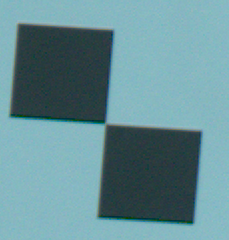
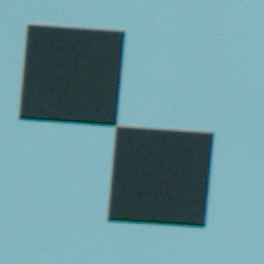
Add grayscale gradient subpixel localization and stepwise debugging

Changed region(s): [[0.0306, 0.0875, 0.8865, 0.9625]]

diff --git a/mubiaogenzong/debug_center.py b/mubiaogenzong/debug_center.py
@@ -1,0 +1,169 @@
+"""Debug grayscale-gradient subpixel center localization without changing live tracking."""
+import argparse
+import json
+import sys
+from datetime import datetime
+from pathlib import Path
+
+import cv2
+import numpy as np
+
+import center_calculation as center
+from gradient_localization import gradient_edge_points, robust_line
+
+PROJECT_DIR = Path(__file__).resolve().parent.parent
+# Change this path to choose the image used when running without arguments.
+DEFAULT_IMAGE_PATH = Path(r"C:\Users\Administrator\Desktop\xiangce\1.jpg")
+
+
+def save_image(path, image):
+    if not center.cv_imwrite(path, image):
+        raise RuntimeError(f"Cannot save image: {path}")
+
+
+def draw_line(image, line, color):
+    height, width = image.shape[:2]
+    p1, p2 = [tuple(int(round(v)) for v in point) for point in line]
+    visible, a, b = cv2.clipLine((0, 0, width, height), p1, p2)
+    if visible:
+        cv2.line(image, a, b, color, 1, cv2.LINE_8)
+
+
+
+def main():
+    parser = argparse.ArgumentParser(description=__doc__)
+    parser.add_argument("image", nargs="?", default=str(DEFAULT_IMAGE_PATH),
+                        help=f"Source image path. Default: {DEFAULT_IMAGE_PATH}")
+    parser.add_argument("--roi", type=int, nargs=4, metavar=("X", "Y", "W", "H"),
+                        help="Optional target rectangle; otherwise select with the mouse")
+    parser.add_argument("--margin-ratio", type=float, default=0.35)
+    parser.add_argument("--output-dir", type=Path, default=None)
+    args = parser.parse_args()
+    if not np.isfinite(args.margin_ratio) or args.margin_ratio < 0:
+        parser.error("--margin-ratio must be finite and nonnegative")
+    image_path = Path(args.image).resolve()
+    frame = center.cv_imread(image_path)
+    if frame is None:
+        parser.error(f"Cannot read image: {image_path}")
+    if args.roi:
+        x, y, w, h = args.roi
+        height, width = frame.shape[:2]
+        if x < 0 or y < 0 or w <= 0 or h <= 0 or x + w > width or y + h > height:
+            parser.error("--roi must be a positive rectangle inside the source image")
+        rects = [args.roi]
+    else:
+        sys.path.insert(0, str(PROJECT_DIR / "mubiaoshibie"))
+        from image_template_match import select_target_rects
+        rects = select_target_rects(frame)
+    if not rects:
+        print("No targets selected; nothing saved.")
+        return
+    output_dir = (args.output_dir or PROJECT_DIR / "data" /
+                  datetime.now().strftime("center_debug_%Y-%m-%d_%H-%M-%S_%f")).resolve()
+    # Use a fresh folder to protect source images and previous debug results.
+    output_dir.mkdir(parents=True, exist_ok=False)
+    save_image(output_dir / "00_source.png", frame)
+    results = []
+    for target_id, (x, y, w, h) in enumerate(rects, start=1):
+        folder = output_dir / f"target_{target_id:03d}"
+        folder.mkdir()
+        files = []
+
+        def save_step(name, image):
+            save_image(folder / name, image)
+            files.append(name)
+
+        save_step("01_selected.png", frame[y:y + h, x:x + w])
+        margin = max(w, h) * args.margin_ratio
+        rx, ry, rw, rh = center.clip_rect(x, y, w, h, frame.shape, margin=margin)
+        crop = frame[ry:ry + rh, rx:rx + rw].copy()
+        save_step("02_roi.png", crop)
+        gray = cv2.cvtColor(crop, cv2.COLOR_BGR2GRAY)
+        blurred = cv2.GaussianBlur(gray, (3, 3), 0)
+        # Sobel gradients are computed from the smoothed grayscale image.
+        gx = cv2.Sobel(blurred, cv2.CV_32F, 1, 0, ksize=3, scale=1 / 8)
+        gy = cv2.Sobel(blurred, cv2.CV_32F, 0, 1, ksize=3, scale=1 / 8)
+        save_step("03_gray.png", gray)
+        save_step("04_blurred.png", blurred)
+        save_step("05_gradient_x.png", cv2.convertScaleAbs(gx))
+        save_step("06_gradient_y.png", cv2.convertScaleAbs(gy))
+        np.savez_compressed(folder / "gradients.npz", gx=gx, gy=gy)
+        local_rect = (x - rx, y - ry, w, h)
+        vertical = gradient_edge_points(gx, local_rect, vertical=True)
+        horizontal = gradient_edge_points(gy, local_rect, vertical=False)
+        points_image = crop.copy()
+        for points, color, name in ((vertical, (0, 0, 255), "07_vertical_points.png"),
+                                    (horizontal, (0, 255, 0), "08_horizontal_points.png")):
+            separate = crop.copy()
+            if points is not None:
+                for px, py in points:
+                    ix, iy = int(round(float(px))), int(round(float(py)))
+                    if 0 <= ix < rw and 0 <= iy < rh:
+                        separate[iy, ix] = color
+                        points_image[iy, ix] = color
+            save_step(name, separate)
+        save_step("09_all_points.png", points_image)
+        vertical_line = robust_line(vertical)
+        horizontal_line = robust_line(horizontal)
+        fitted = crop.copy()
+        for line, color, name in ((vertical_line, (0, 0, 255), "10_vertical_line.png"),
+                                  (horizontal_line, (0, 255, 0), "11_horizontal_line.png")):
+            separate = crop.copy()
+            if line is not None:
+                draw_line(separate, line, color)
+                draw_line(fitted, line, color)
+            save_step(name, separate)
+        save_step("12_both_lines.png", fitted)
+        local = (center.line_intersection(*vertical_line, *horizontal_line)
+                 if vertical_line is not None and horizontal_line is not None else None)
+        location = [local[0] + rx, local[1] + ry] if local is not None else None
+        final = fitted.copy()
+        if local is not None:
+            ix, iy = [int(round(v)) for v in local]
+            if 0 <= ix < rw and 0 <= iy < rh:
+                final[iy, ix] = (255, 0, 255)
+        save_step("13_center.png", final)
+        failure = ("insufficient_vertical_points" if vertical_line is None else
+                   "insufficient_horizontal_points" if horizontal_line is None else
+                   "parallel_lines" if local is None else None)
+        result = {"id": target_id, "selected_rect": [x, y, w, h],
+                  "roi_rect": [rx, ry, rw, rh], "center_px": location,
+                  "center_roi_px": local, "success": local is not None,
+                  "failure_reason": failure,
+                  "vertical_line_roi": vertical_line,
+                  "horizontal_line_roi": horizontal_line,
+                  "vertical_points_roi": vertical.tolist() if vertical is not None else [],
+                  "horizontal_points_roi": horizontal.tolist() if horizontal is not None else [],
+                  "vertical_point_count": len(vertical) if vertical is not None else 0,
+                  "horizontal_point_count": len(horizontal) if horizontal is not None else 0,
+                  "step_files": files}
+        with (folder / "results.json").open("w", encoding="utf-8") as file:
+            json.dump(result, file, ensure_ascii=False, indent=2)
+        results.append(result)
+        print(f"ID{target_id}: center={location} px, failure={failure}")
+    with (output_dir / "results.json").open("w", encoding="utf-8") as file:
+        json.dump({"source_image": str(image_path), "margin_ratio": args.margin_ratio,
+                   "algorithm": "grayscale_gradient_subpixel",
+                   "parameters": {"gaussian_kernel": [3, 3], "sobel_kernel": 3,
+                                  "sobel_scale": 0.125, "min_gradient": 5.0,
+                                  "search_width_ratio": 0.5, "scan_length_ratio": 0.7,
+                                  "crossing_exclusion_ratio": 0.1, "min_points": 6,
+                                  "subpixel": "three-point parabolic interpolation",
+                                  "fit_distance": "HUBER", "line_width_px": 1},
+                   "targets": results}, file, ensure_ascii=False, indent=2)
+    (output_dir / "README.txt").write_text(
+        "00_source: original image\n"
+        "01: selected target; 02: expanded ROI; 03: grayscale; 04: Gaussian blur; "
+        "05: absolute X gradient; 06: absolute Y gradient; gradients.npz: signed float gradients\n"
+        "07: vertical edge points (red); 08: horizontal edge points (green); "
+        "09: all edge points\n"
+        "10: vertical fitted line; 11: horizontal fitted line; 12: both lines; "
+        "13: center marked by one magenta pixel\n"
+        "All coordinates ending in _roi are local to 02_roi. center_px is in the source image.\n"
+        "Failures still save all available stages; absent lines are not drawn. "
+        "Decimal coordinates do not establish measurement accuracy.\n", encoding="utf-8")
+    print(f"Debug results saved: {output_dir}")
+
+
+if __name__ == "__main__":
+    main()

diff --git a/mubiaogenzong/center_calculation.py b/mubiaogenzong/center_calculation.py
@@ -5,6 +5,8 @@ from pathlib import Path
 import cv2
 import numpy as np
 
+from gradient_localization import gradient_edge_points, robust_line
+
 
 PROJECT_DIR = Path(__file__).resolve().parent.parent
 DEFAULT_STATE_PATH = PROJECT_DIR / "targets_state.json"
@@ -115,11 +117,11 @@ def rect_from_corners(corners):
     return x1, y1, x2 - x1, y2 - y1
 
 
-def adaptive_binary_from_roi(roi):
+def adaptive_binary_from_roi(roi, return_stages=False):
     """Normalize local brightness and binarize one target crop."""
     gray = cv2.cvtColor(roi, cv2.COLOR_BGR2GRAY) if len(roi.shape) == 3 else roi
-    gray = cv2.GaussianBlur(gray, (3, 3), 0)
-    equalized = cv2.createCLAHE(clipLimit=2.0, tileGridSize=(4, 4)).apply(gray)
+    blurred = cv2.GaussianBlur(gray, (3, 3), 0)
+    equalized = cv2.createCLAHE(clipLimit=2.0, tileGridSize=(4, 4)).apply(blurred)
     binary = cv2.adaptiveThreshold(
         equalized,
         255,
@@ -128,6 +130,8 @@ def adaptive_binary_from_roi(roi):
         21,
         3,
     )
+    if return_stages:
+        return {"gray": gray, "blurred": blurred, "equalized": equalized, "binary": binary}
     return binary
 
 
@@ -186,7 +190,7 @@ def center_from_template_frame(
     template_corners,
     margin_ratio=0.35,
 ):
-    """Compute center by fitting two black-white center boundary lines."""
+    """Compute subpixel center from grayscale gradient peaks and robust fitted lines."""
     rect = rect_from_corners(template_corners)
     if rect is None:
         return None, None
@@ -199,12 +203,15 @@ def center_from_template_frame(
 
     rx, ry, rw, rh = clipped
     roi = frame[ry:ry + rh, rx:rx + rw]
-    binary = adaptive_binary_from_roi(roi)
-
-    vertical_points = center_band_edge_points(binary, vertical=True)
-    horizontal_points = center_band_edge_points(binary, vertical=False)
-    vertical_line = fit_line_from_points(vertical_points)
-    horizontal_line = fit_line_from_points(horizontal_points)
+    gray = cv2.cvtColor(roi, cv2.COLOR_BGR2GRAY) if roi.ndim == 3 else roi
+    blurred = cv2.GaussianBlur(gray, (3, 3), 0)
+    gx = cv2.Sobel(blurred, cv2.CV_32F, 1, 0, ksize=3, scale=1 / 8)
+    gy = cv2.Sobel(blurred, cv2.CV_32F, 0, 1, ksize=3, scale=1 / 8)
+    local_rect = (x - rx, y - ry, w, h)
+    vertical_points = gradient_edge_points(gx, local_rect, vertical=True)
+    horizontal_points = gradient_edge_points(gy, local_rect, vertical=False)
+    vertical_line = robust_line(vertical_points)
+    horizontal_line = robust_line(horizontal_points)
 
     if vertical_line is None or horizontal_line is None:
         return None, None
@@ -221,7 +228,10 @@ def center_from_template_frame(
     center = [center_local[0] + rx, center_local[1] + ry]
     debug = {
         "roi_rect": [rx, ry, rw, rh],
-        "binary": binary,
+        "gray": gray,
+        "blurred": blurred,
+        "gradient_x": gx,
+        "gradient_y": gy,
         "vertical_line": vertical_line,
         "horizontal_line": horizontal_line,
         "vertical_points": vertical_points,

diff --git a/mubiaogenzong/gradient_localization.py b/mubiaogenzong/gradient_localization.py
@@ -1,0 +1,38 @@
+"""Shared grayscale-gradient edge extraction and robust line fitting."""
+import cv2
+import numpy as np
+
+
+def gradient_edge_points(gradient, rect, vertical=True):
+    """Search the central 50% for strongest gradients; omit the central 10% crossing."""
+    x, y, w, h = rect
+    cx, cy = x + w / 2, y + h / 2
+    length = gradient.shape[1] if vertical else gradient.shape[0]
+    origin, extent = (cx, w) if vertical else (cy, h)
+    lo = max(1, int(np.ceil(origin - 0.25 * extent)))
+    hi = min(length - 2, int(np.floor(origin + 0.25 * extent)))
+    points = []
+    scan_start, scan_end = ((y + 0.15 * h, y + 0.85 * h) if vertical
+                             else (x + 0.15 * w, x + 0.85 * w))
+    cross, cross_size = (cy, h) if vertical else (cx, w)
+    for scan in range(int(np.ceil(scan_start)), int(np.floor(scan_end))):
+        if abs(scan - cross) < 0.05 * cross_size or lo > hi:
+            continue
+        profile = np.abs(gradient[scan, :] if vertical else gradient[:, scan])
+        peak = lo + int(np.argmax(profile[lo:hi + 1]))
+        if peak == lo or peak == hi or profile[peak] < 5.0:
+            continue
+        a, b, c = [float(v) for v in profile[peak - 1:peak + 2]]
+        denominator = a - 2 * b + c
+        offset = 0.5 * (a - c) / denominator if denominator < -1e-9 else 0.0
+        position = peak + float(np.clip(offset, -0.5, 0.5))
+        points.append([position, float(scan)] if vertical else [float(scan), position])
+    return np.asarray(points, dtype=np.float32).reshape(-1, 2)
+
+
+def robust_line(points):
+    if len(points) < 6:
+        return None
+    vx, vy, x0, y0 = cv2.fitLine(points, cv2.DIST_HUBER, 0, 0.01, 0.01).reshape(-1)
+    return ([float(x0 - vx * 10000), float(y0 - vy * 10000)],
+            [float(x0 + vx * 10000), float(y0 + vy * 10000)])
